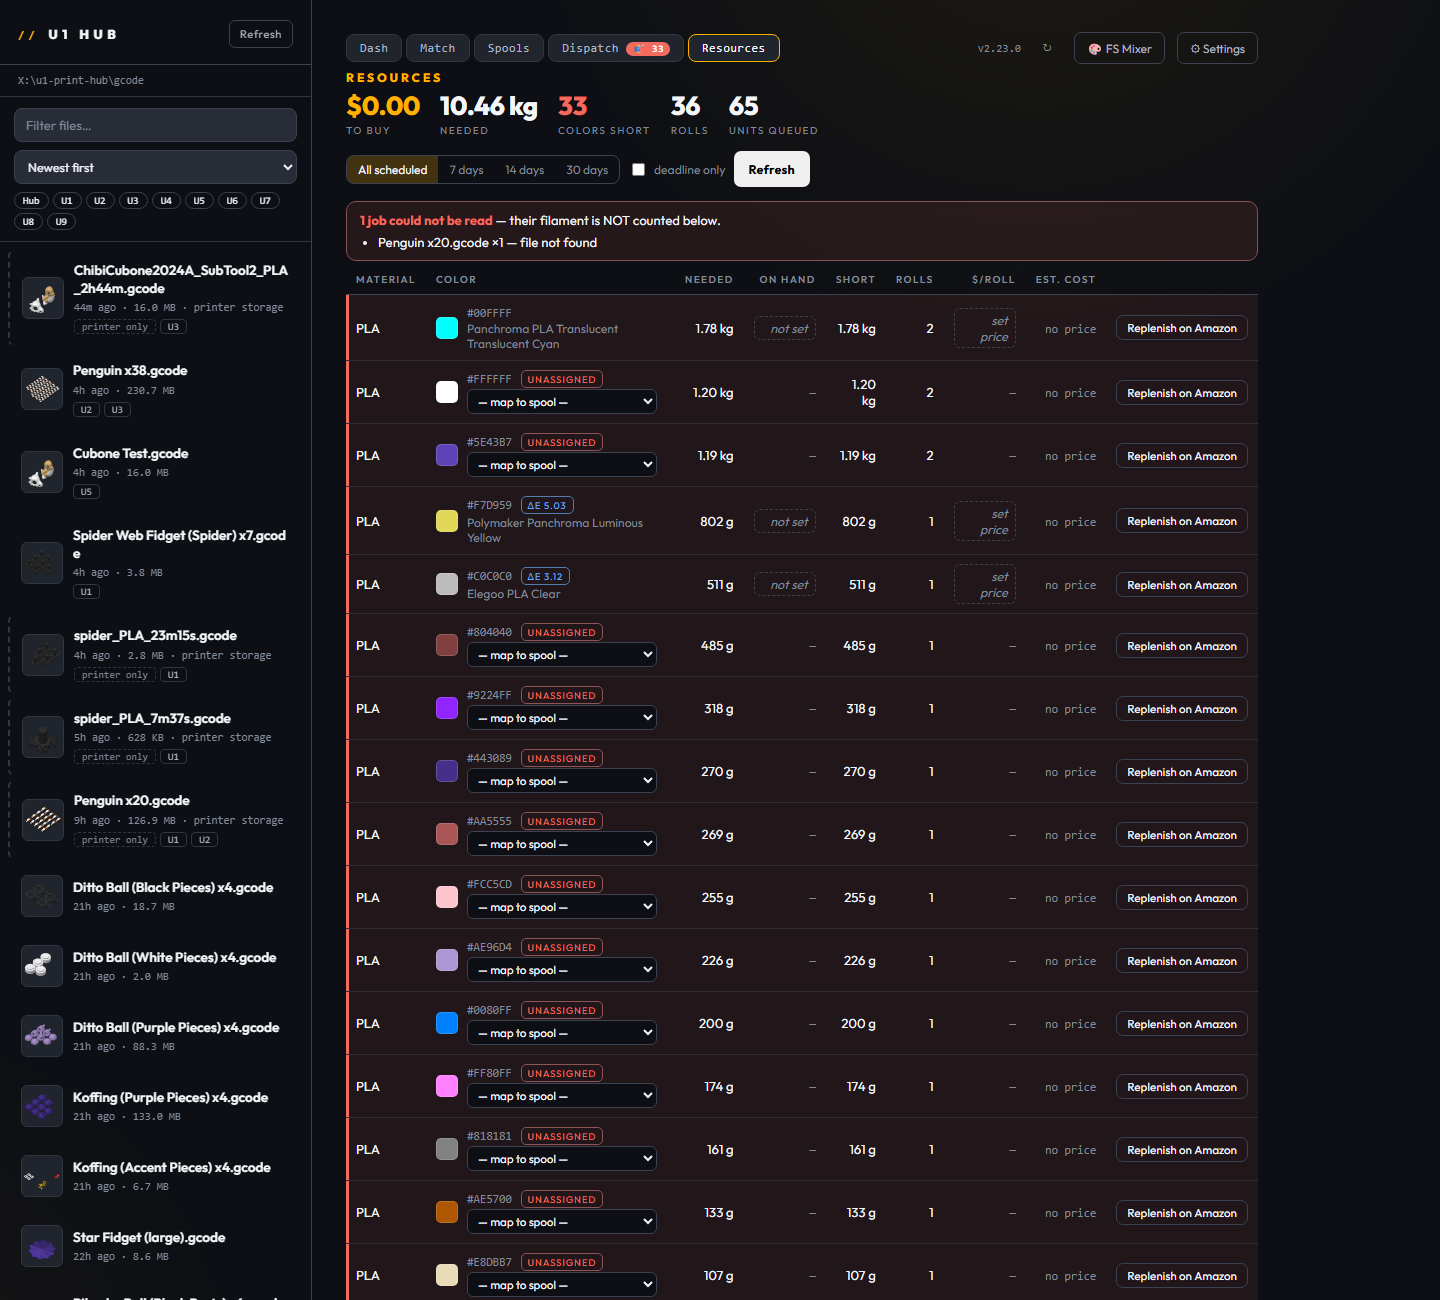
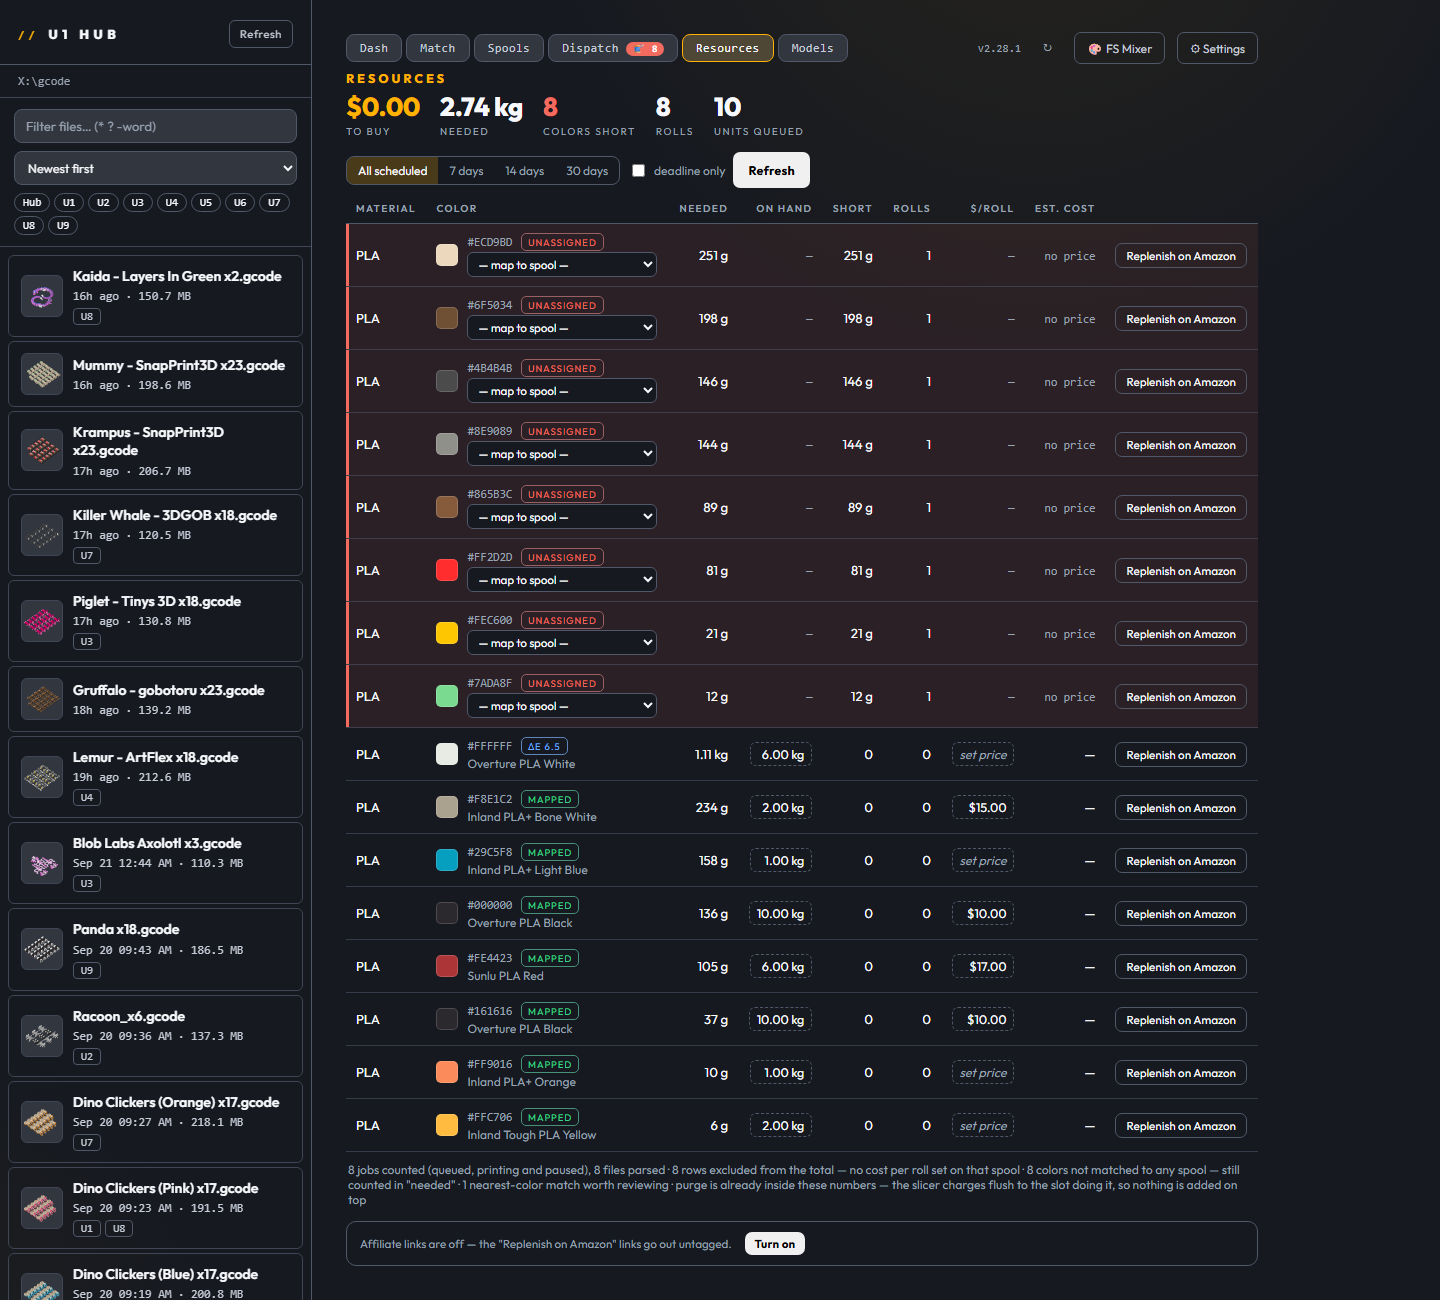
README for 2.28, screenshots reshot on the 2.28.1 look
Three new pictures: the Models tab, a settings suggestion for a 3MF (the Flexi Factory frog, from the cache), and the job card with the worth-printing line and a pre-flight answer. The other eight reshot so the README shows the readability pass. shoot-docs.js gains thenEval steps for the clicks a person makes; seed-4546.js copies models-index.json and advisor.json so the shots neither walk the share nor spend a cent.

Claude-Session: https://claude.ai/code/session_01Hx9jEsRp59sDw8poVu7dZW

diff --git a/scripts/shoot-docs.js b/scripts/shoot-docs.js
@@ -50,7 +50,24 @@ const SHOTS = [
   { name: "match",     file: "spool-match.png",      w: 1440, h: 1000, url: "/#dash",      ready: ".pcard .pill", thenView: "match", thenReady: ".matchcard" },
   { name: "settings",  file: "features-panel.png",   w: 1440, h: 1300, url: "/#settings",  ready: "#setFeatures [data-feat]" },
   { name: "klipper",   file: "klipper-proxy.png",    w: 1440, h: 1000, url: "/p/0/",       readyText: /Home|Console|Extruder/i, extraMs: 3000 },
-  { name: "phone",     file: "remote-phone.png",     w: 390,  h: 844,  url: "/#dash",      ready: ".pcard .pill" }
+  { name: "phone",     file: "remote-phone.png",     w: 390,  h: 844,  url: "/#dash",      ready: ".pcard .pill" },
+  // v2.28. The Models tab needs its index (seed-4546 copies models-index.json)
+  // and the settings panel needs a cached answer (seed copies advisor.json), so
+  // neither shot walks the share or spends a cent. thenEval runs in the page
+  // after `ready`, before `thenReady` - the clicks a person would make.
+  { name: "models",    file: "models.png",           w: 1440, h: 1000, url: "/#models",    ready: ".mdl-card .mdl-chip", extraMs: 2500 },
+  { name: "suggest",   file: "models-settings.png",  w: 1440, h: 1000, url: "/#models",    ready: ".mdl-card",
+    // One glob token: the filter splits on spaces and ANDs the words, so
+    // "*mini frog*" is "ends with mini" AND "starts with frog" (nothing). The
+    // grid is emptied first so thenReady waits for the FILTERED render, not
+    // the cards already on screen.
+    thenEval: "document.getElementById('mdl-grid').innerHTML=''; const q=document.getElementById('mdl-q'); q.value='*mini*frog*'; q.dispatchEvent(new Event('input'));",
+    thenReady: ".mdl-card [data-suggest]",
+    thenEval2: "document.querySelector('.mdl-card [data-suggest]').click();",
+    thenReady2: "#mdl-advbody tr", thenTimeout: 90000, extraMs: 2500 },
+  { name: "jobcard",   file: "worth-printing.png",   w: 1440, h: 900,  url: "/#dash",      ready: ".pcard .pill",
+    thenEval: "document.querySelector('.job').click();", thenReady: "#mgline.show",
+    thenEval2: "document.getElementById('advgo').click();", thenReady2: "#advbody .advverdict", thenTimeout: 90000, extraMs: 1500 }
 ];
 
 (async () => {
@@ -77,6 +94,14 @@ const SHOTS = [
         if (s.thenView) {
           await page.evaluate(v => setView(v), s.thenView);
           await page.waitForSelector(s.thenReady, { timeout: 30000 });
+        }
+        if (s.thenEval) {
+          await page.evaluate(s.thenEval);
+          if (s.thenReady) await page.waitForSelector(s.thenReady, { timeout: s.thenTimeout || 30000 });
+        }
+        if (s.thenEval2) {
+          await page.evaluate(s.thenEval2);
+          if (s.thenReady2) await page.waitForSelector(s.thenReady2, { timeout: s.thenTimeout || 30000 });
         }
         if (s.thenClick) { await page.click(s.thenClick); await new Promise(r => setTimeout(r, 600)); }
         // Let live tiles (progress bars, sparklines, thumbnails) finish a tick.

diff --git a/scripts/seed-4546.js b/scripts/seed-4546.js
@@ -22,7 +22,10 @@ if (!DST) { console.error("usage: node scripts/seed-4546.js <state-dir>"); proce
 fs.mkdirSync(DST, { recursive: true });
 
 // A snapshot of the farm as it really is, so the throwaway is worth looking at.
-for (const f of ["config.json", "dispatch.json", "spools.json", "slots.json", "resources.json"]) {
+// v2.28: models-index.json so the Models tab draws at once instead of walking
+// the share for minutes; advisor.json so cached AI answers show without a
+// paid call (the key itself rides in config.json, as it always has).
+for (const f of ["config.json", "dispatch.json", "spools.json", "slots.json", "resources.json", "models-index.json", "advisor.json"]) {
   const from = path.join(SRC, f);
   if (fs.existsSync(from)) fs.copyFileSync(from, path.join(DST, f));
 }

diff --git a/README.md b/README.md
@@ -7,8 +7,9 @@ can join in too (that part is in beta).
 
 You run the Hub on a computer that stays on. Your phone, or any browser, opens
 it like a web page. From there you can see every machine at once, send prints,
-watch cameras, plan your printing week, and know what filament to buy before
-you run out.
+watch cameras, plan your printing week, know what filament to buy before you
+run out, and - new in 2.28 - ask what settings a model wants before you slice
+it, and whether a plate is worth printing at all.
 
 Nothing gets installed on the printers. The Hub talks to the software they
 already run, and nothing leaves your network unless you turn remote access on,
@@ -25,25 +26,47 @@ paused or failed says why, in the firmware's own words, so you know whether to
 walk over. A printer that is down for maintenance says so right on the card,
 and the scheduler routes work around it until you bring it back.
 
-**Open any printer's own control page in one click.** Click a printer's name
-and its full Klipper interface (Fluidd) opens, no typing IP addresses. On your
-network it opens the printer directly, so its live data and controls work
-exactly as they do when you visit the printer on its own.
-
-![A printer's own Fluidd page, one click from the dashboard](docs/klipper-proxy.png)
-
 **Send prints without walking over.** Pick a file, see the colors it needs,
 choose which head prints which color, and push it to any idle machine. Files
 live in one merged list: the Hub's library plus whatever is stored on each
 printer, with thumbnails.
 
+**Know whether it is worth printing.** Under every file you select, one line
+says what its filament costs, the least it has to sell for (per piece when the
+file name carries the plate count, like `Penguin x20.gcode`), and what that
+comes to per printer hour. The two rates behind it - your sell floor per gram
+and what filament costs you per gram - are in Settings. The Hub never decides
+anything from this; it is the number to look at before you queue a plate.
+
+**Get a second pair of eyes before you press print.** With your own Anthropic
+API key in Settings, the AI pre-flight button on the job card has Claude read
+the settings baked into the sliced file and compare them with what is actually
+loaded in the printer you picked: wrong material or temperature for a head, an
+empty head a color needs, a missing prime tower, bed temperature wrong for the
+plate. You get GO, CHECK or STOP and the reasons, most important first.
+
+![The job card: what the plate is worth, and a pre-flight against the printer's loadout](docs/worth-printing.png)
+
 **Browse the models you have not sliced yet.** The Models tab reads a folder
 of 3MF project files (Designer\Model\file.3mf, the way designers ship them)
 and shows each one with the plate render saved inside it, the colors it was
-painted with, and the objects on the plate. One button opens it in Snapmaker
-Orca on the Hub computer; when you save the gcode, the Hub notices and offers
-to select it or send it to Dispatch. Desktop only, because the button opens a
-program on that computer.
+painted with, and the objects on the plate. Open in Orca launches it in
+Snapmaker Orca on the Hub computer; when you save the gcode, the Hub notices
+and offers to select it or send it to Dispatch.
+
+![Models: the shelf behind the library, with the designer's own plate renders](docs/models.png)
+
+**Ask what settings a model wants.** The Settings button on any Models card
+has Claude suggest the slicer settings for that file on the printer you pick,
+before you slice - a table of setting, the value to use, what the designer's
+profile had, and why. It is specific to the model because of what goes with
+the question: the plate picture from inside the file, numbers the Hub measures
+from the actual meshes (size, how much of the surface overhangs, undersides
+that float, how much touches the bed, painted faces, volume), the designer's
+own project settings, and what is loaded in your printer. It maps the
+project's colors to your loaded heads when it can, and lists what to watch.
+
+![Settings for a 3MF: what to set in Orca, what the file had, and why](docs/models-settings.png)
 
 **Plan your whole printing day.** The Dispatch tab schedules your queue across
 every printer, inside the hours you are actually home to swap plates. It flags
@@ -70,38 +93,28 @@ Hub reads Spoolman and never writes to it.
 
 ![Spools: every roll you own, where it is, and what is left on it](docs/spools-inventory.png)
 
-**A second pair of eyes before you print.** With your own Anthropic API key
-in Settings, two buttons light up. On a Models card, ✦ Settings has Claude
-look at the plate render inside the 3MF, numbers the Hub measures from the
-meshes (size, overhangs, floating undersides, bed contact, painted faces,
-volume) and the designer's own profile, then suggest the slicer settings for
-the printer you pick - a table you set in Orca before slicing. On the job
-card, AI pre-flight reads the settings baked into an already-sliced file and
-compares them with what is loaded in the printer: wrong material or
-temperature for a head, an empty head a color needs, a missing prime tower.
-GO, CHECK or STOP, and why. Nothing is sent until you press a button, never
-the gcode or the meshes themselves; a review costs about a cent, a settings
-suggestion a few.
-
-**Worth printing?** Under the selected file, one line says what its filament
-costs, the least it has to sell for (per piece when the file name carries
-the plate count, like `Penguin x20.gcode`) and what that is per printer
-hour, from two rates you set in Settings. The number to look at before you
-queue a plate.
-
-**Let your phone tell you.** Settings can send push notifications through
-[ntfy](https://ntfy.sh) (free, no account) when a print finishes, a printer
-pauses (with the reason), errors, or stops answering. Pick the events you want;
-one box turns it all off.
-
 **Ask "what can I print right now?"** The Match tab reads the colors loaded
 on each printer and lists the library files those colors can already produce,
 best match first, one tap from printing.
 
 ![Match: jobs your loaded colors can print right now](docs/spool-match.png)
 
+**Let your phone tell you.** Settings can send push notifications through
+[ntfy](https://ntfy.sh) (free, no account) when a print finishes, a printer
+pauses (with the reason), errors, or stops answering. Pick the events you want;
+one box turns it all off.
+
+**Open any printer's own control page in one click.** Click a printer's name
+and its full Klipper interface (Fluidd) opens, no typing IP addresses. On your
+network it opens the printer directly, so its live data and controls work
+exactly as they do when you visit the printer on its own.
+
+![A printer's own Fluidd page, one click from the dashboard](docs/klipper-proxy.png)
+
 **Use it from your phone.** The whole thing is built for a phone screen. Add
-it to your home screen and it behaves like an app.
+it to your home screen and it behaves like an app. (The Models tab and its
+Open in Orca button are desktop only, because they open a program on the Hub
+computer.)
 
 <img src="docs/remote-phone.png" width="300" alt="The dashboard on a phone">
 
@@ -154,6 +167,12 @@ into `./data`, and copy your old container's `spools.json`, `slots.json`,
 **From source:** install Node.js 22 or newer, then run `start-windows.bat` or
 `./start-mac-linux.sh`. First launch installs what it needs and opens the page.
 
+**To turn on the AI buttons:** make a key at
+[platform.claude.com](https://platform.claude.com/) (API keys, Create key; it
+starts with `sk-ant-`), add a few dollars of credit there, and paste it into
+Settings under AI pre-flight. The key stays in `config.json` on the Hub
+computer and is never shown again. Both buttons are off until a key is in.
+
 ---
 
 ## Using it away from home
@@ -172,6 +191,18 @@ network setup.
 ---
 
 ## The honest fine print
+
+**The AI buttons send data out, and only when you press them.** For a gcode:
+a text brief of a few thousand characters - the file name, the slicer
+settings Orca wrote into it, the filaments it was sliced for, the object
+count, and what the Hub has recorded in that printer's heads. For a 3MF: the
+measured numbers, the designer's settings, the loadout, and the small plate
+picture from inside the file. Never the gcode or the meshes themselves, never
+your printers' addresses. Settings has a link that shows you the exact brief
+for any file before you trust it with a key. A pre-flight costs about a cent
+on Claude Sonnet, a settings suggestion a few cents (the model thinks first),
+and the same file against the same loadout is answered from a local cache for
+free.
 
 **Amazon links.** The Replenish on Amazon buttons carry an affiliate tag, so
 the creator of this software earns a small commission if you buy through one,
